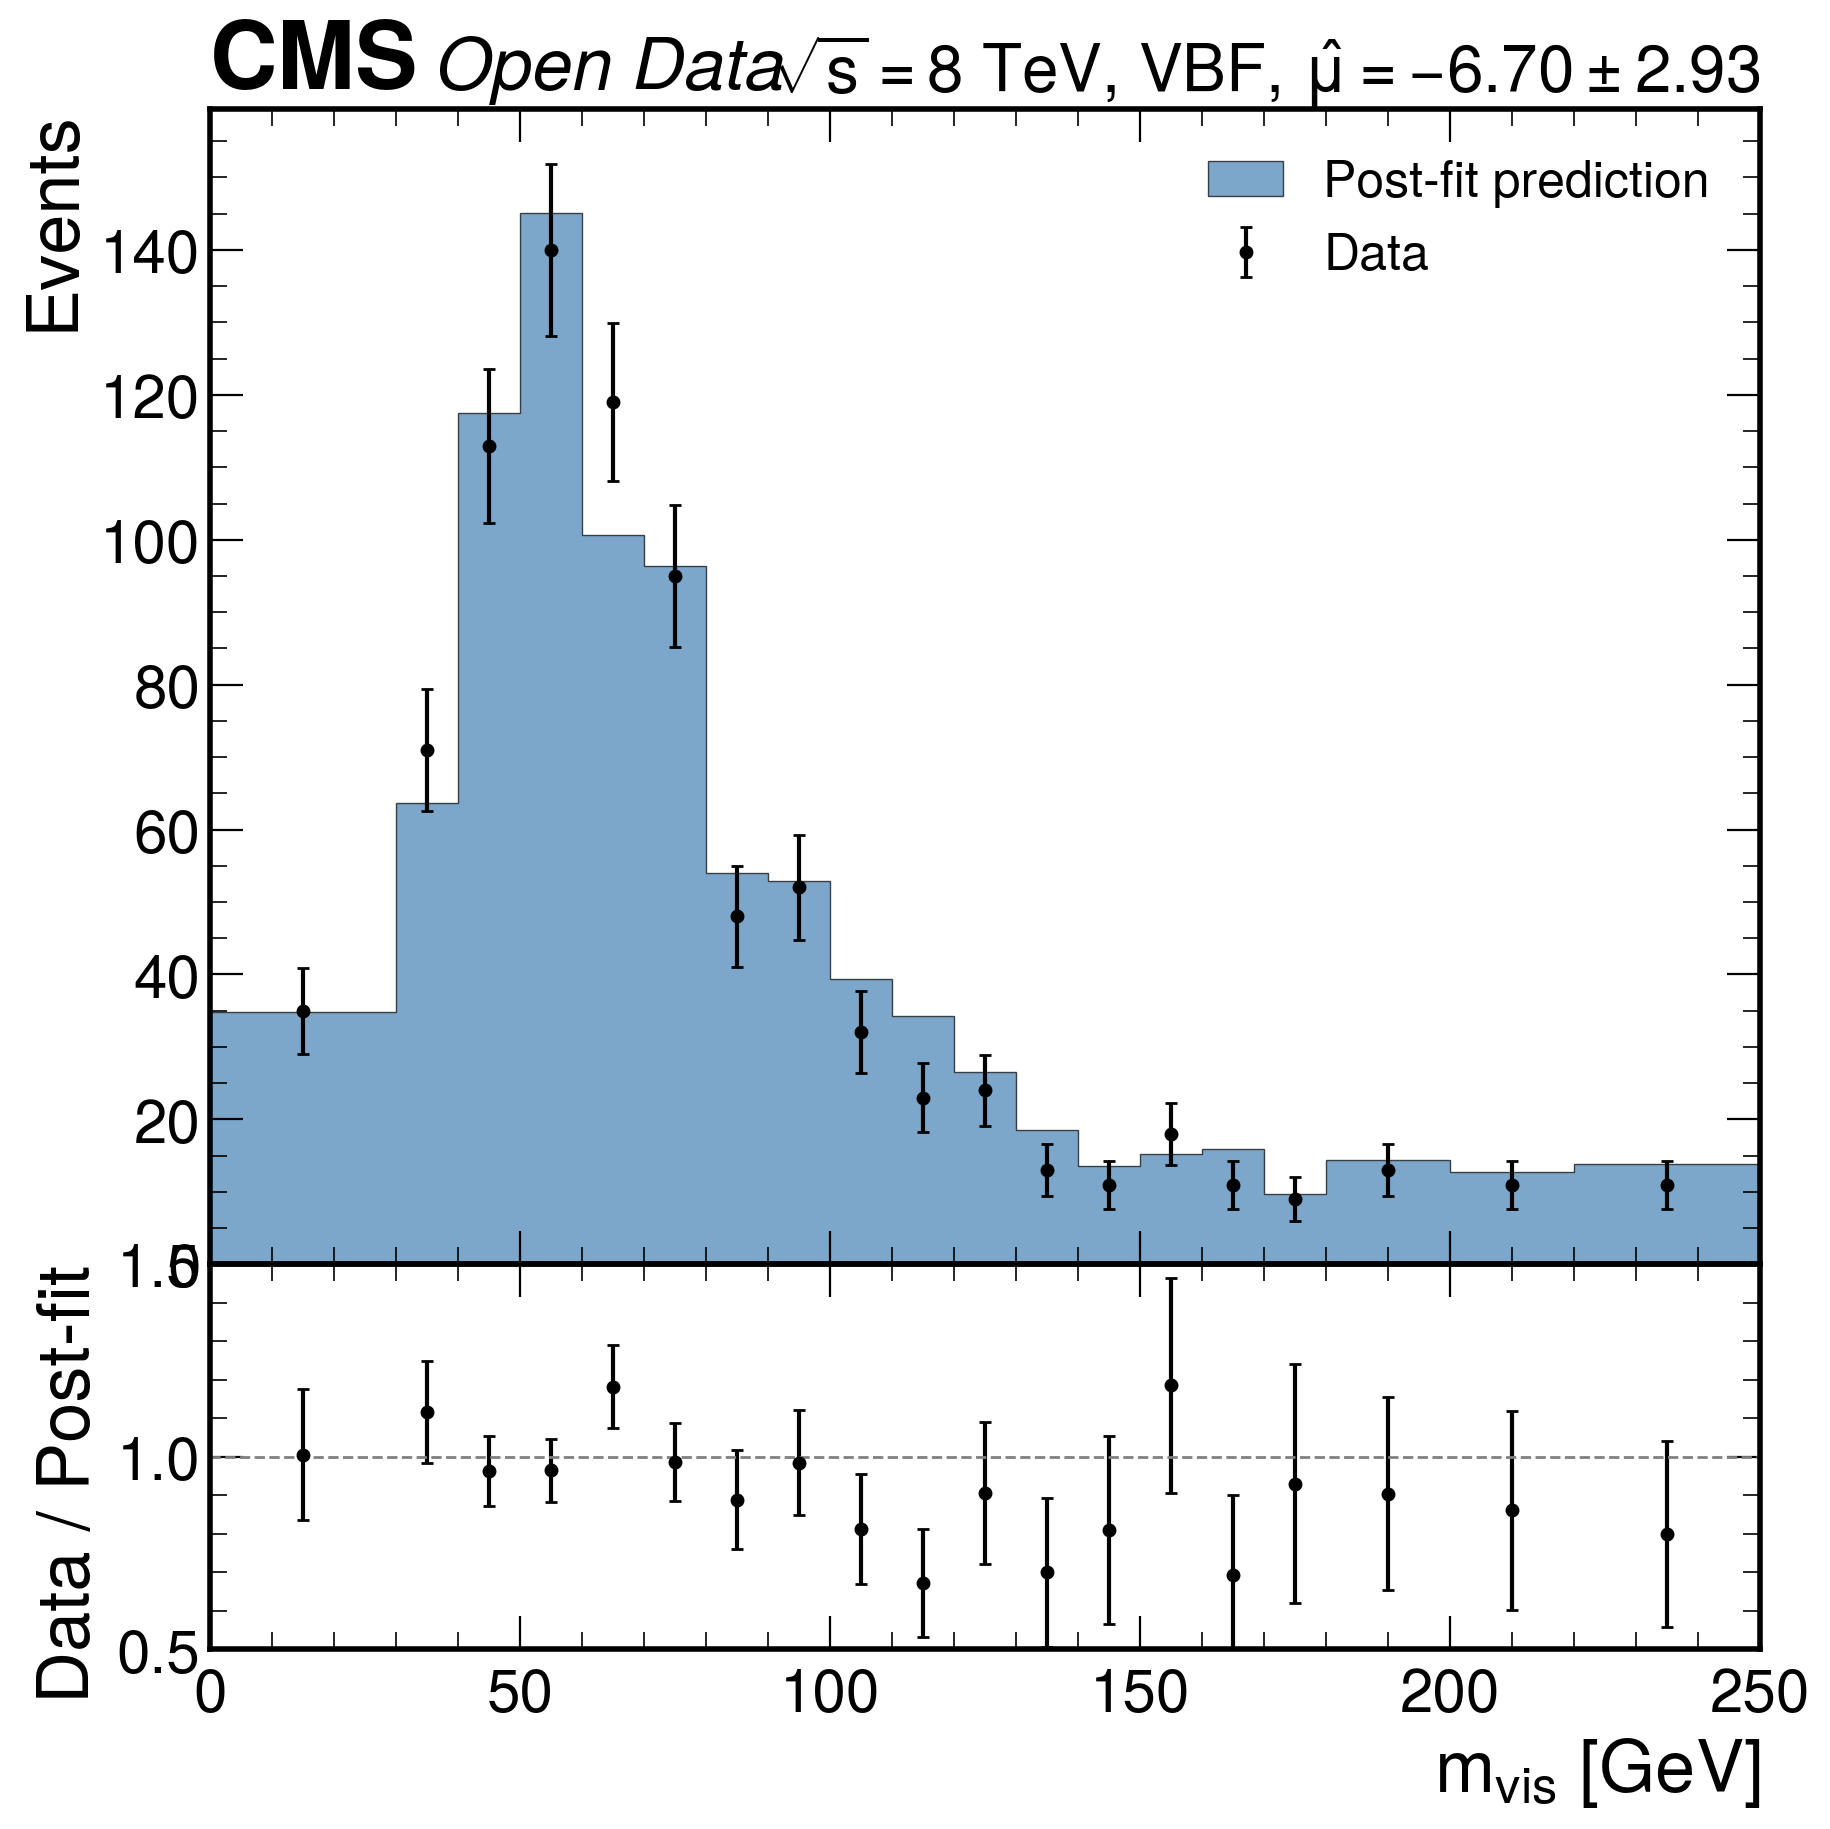
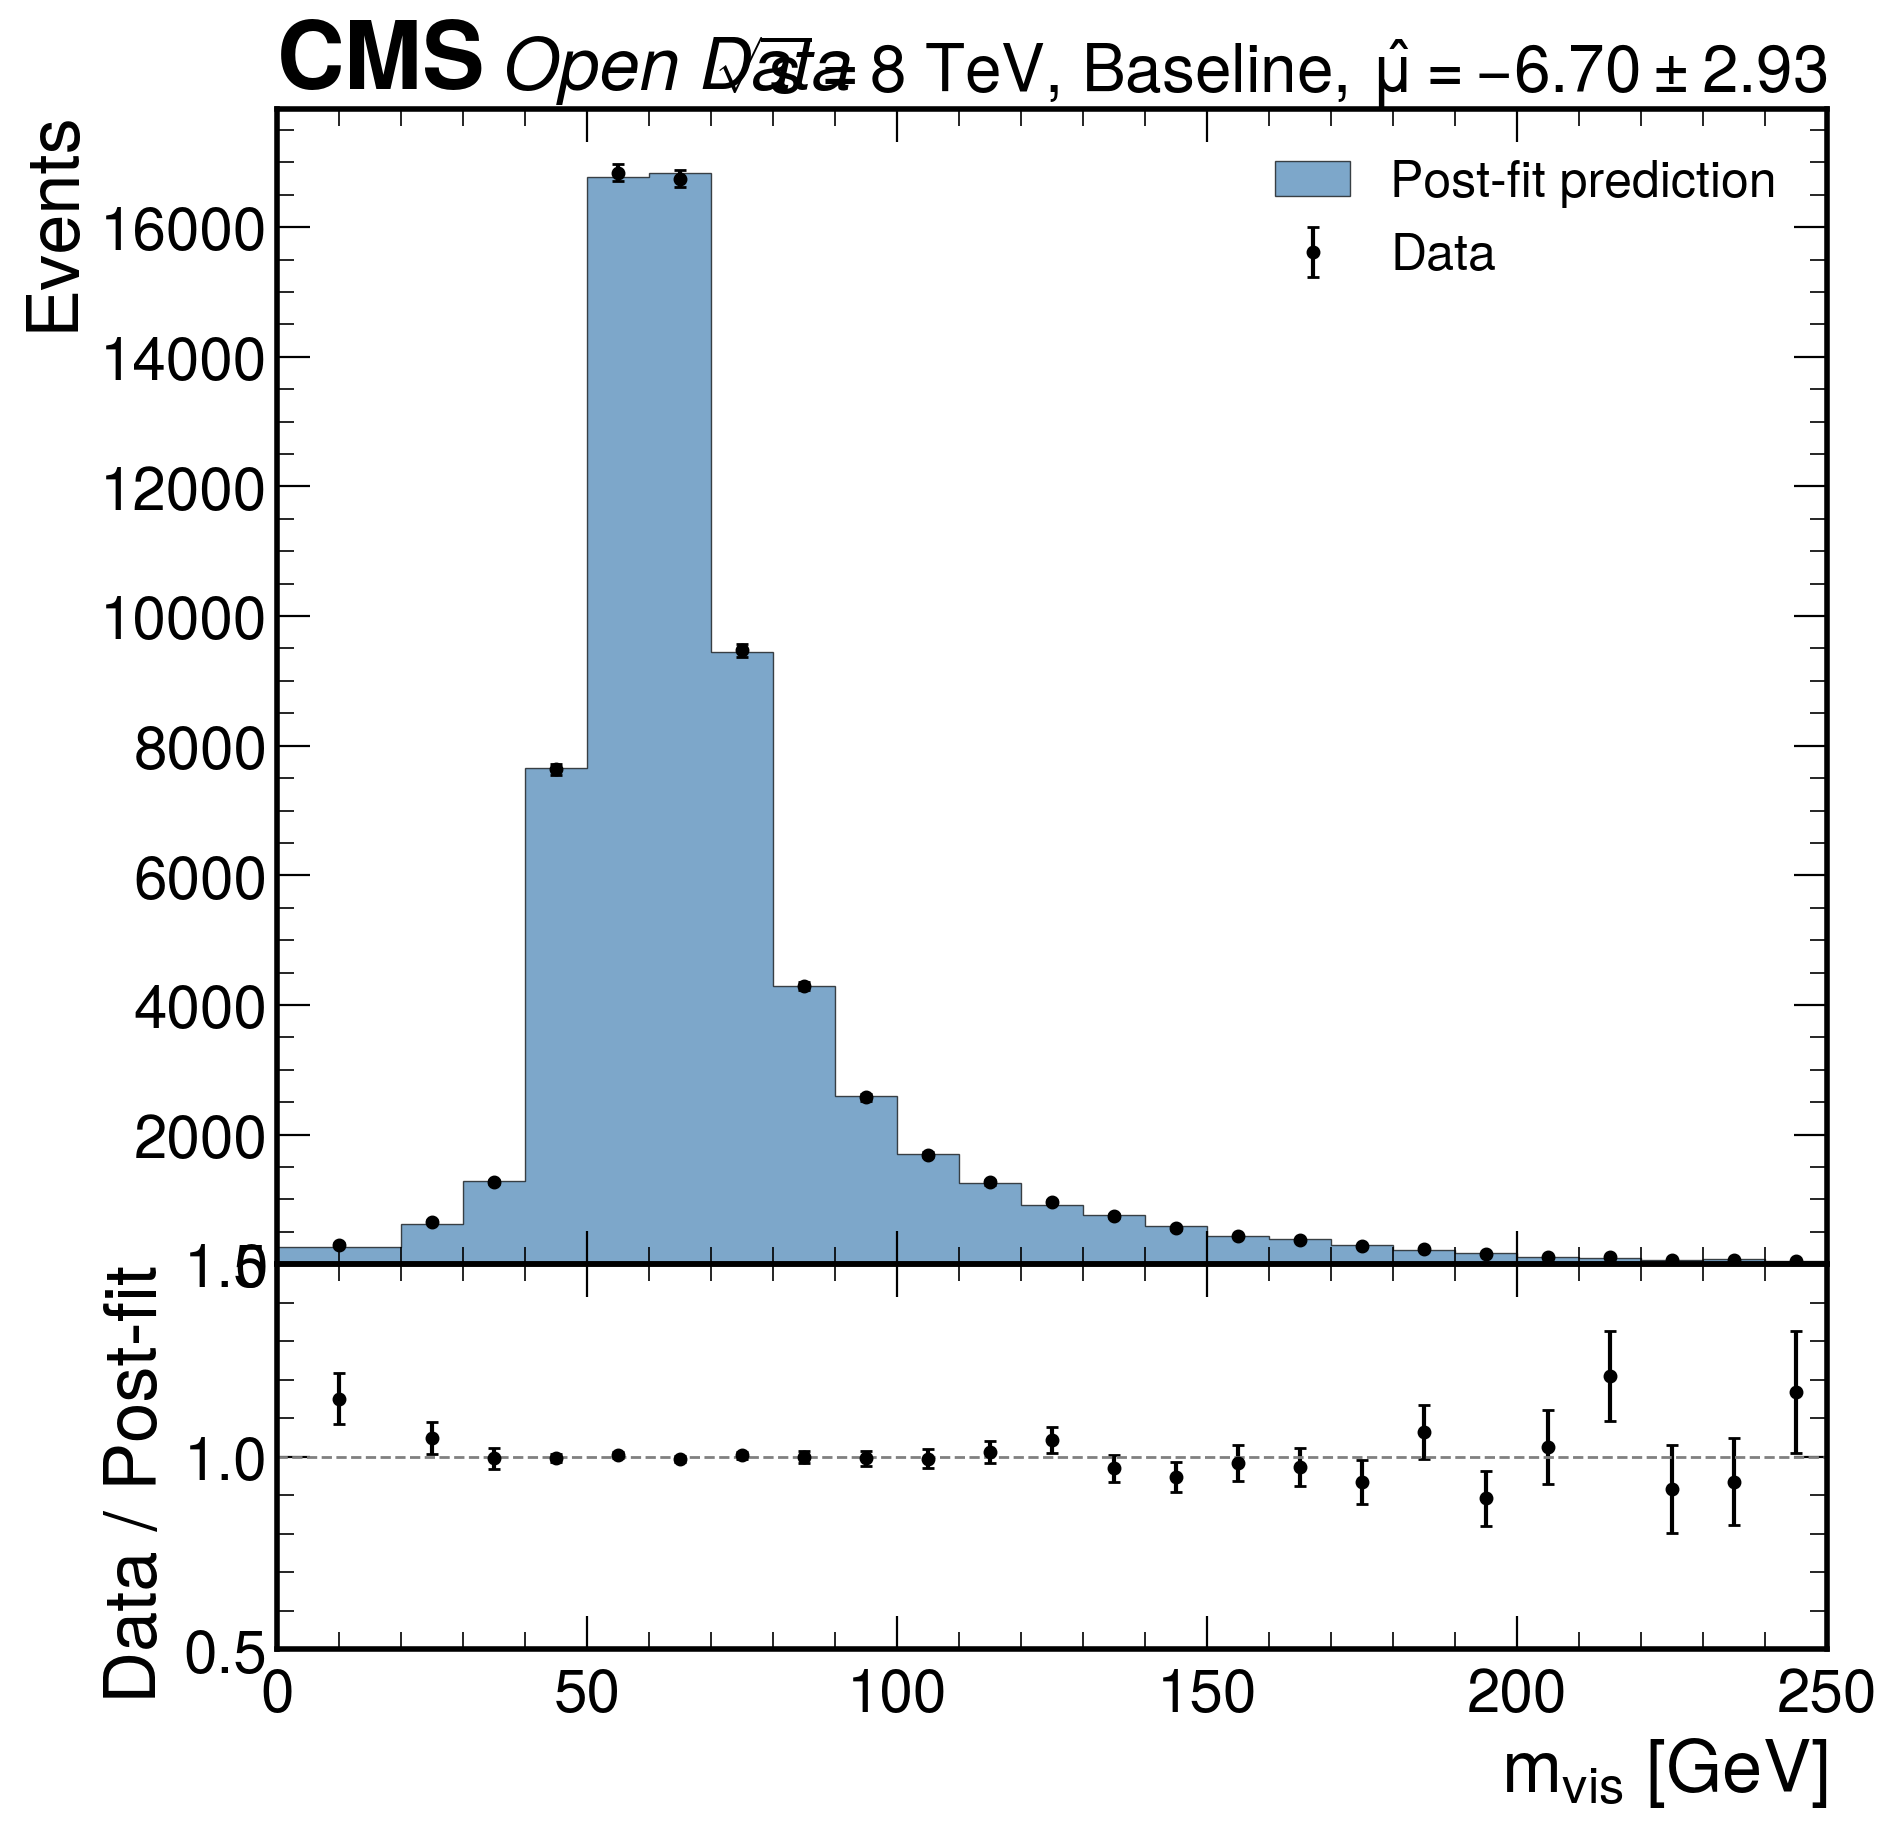
feat(ui): use data_mc_postfit_mvis_baseline as CMS H->tautau thumbnail (postfit visible mass)

diff --git a/index.html b/index.html
@@ -277,7 +277,7 @@
 
                 <div class="card animate delay-5">
                     <div class="card-thumbnail">
-                        <img src="images/htt.png?v=20" onerror="this.src='images/placeholder_thumb.png'"
+                        <img src="images/htt.png?v=30" onerror="this.src='images/placeholder_thumb.png'"
                             alt="CMS H to tau tau PDF Thumbnail">
                     </div>
                     <h3>H &rarr; &tau;&tau;</h3>
